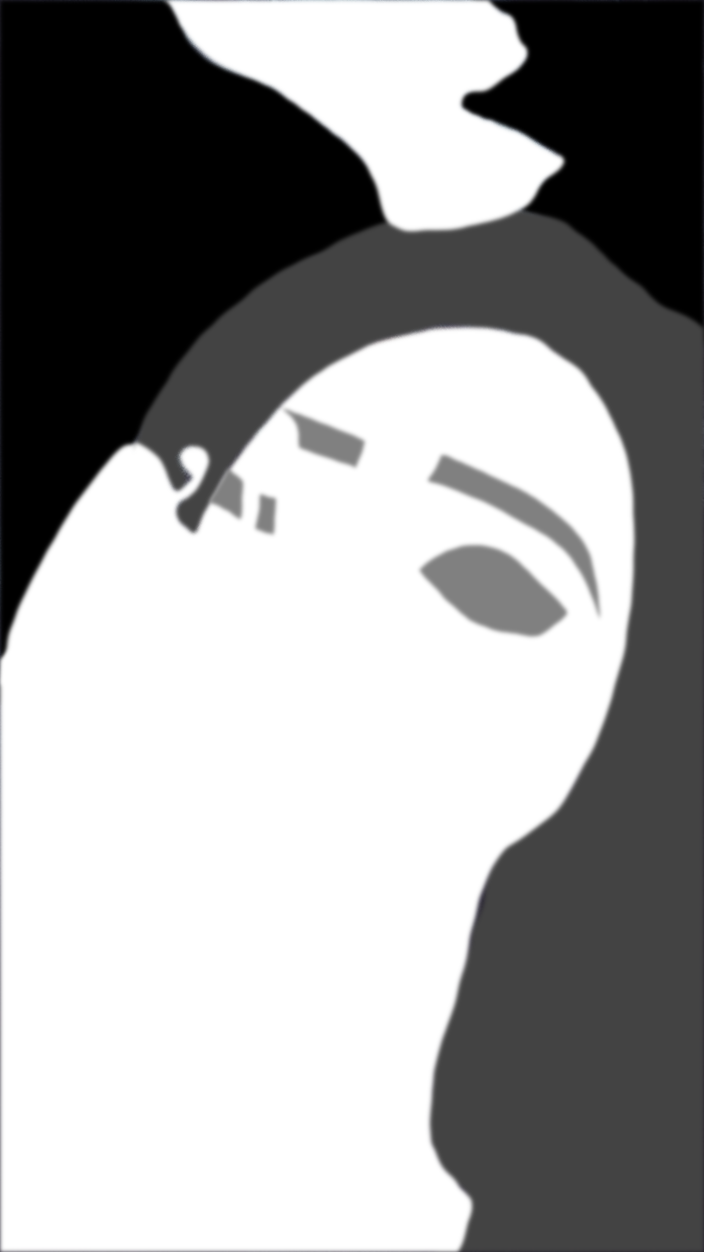
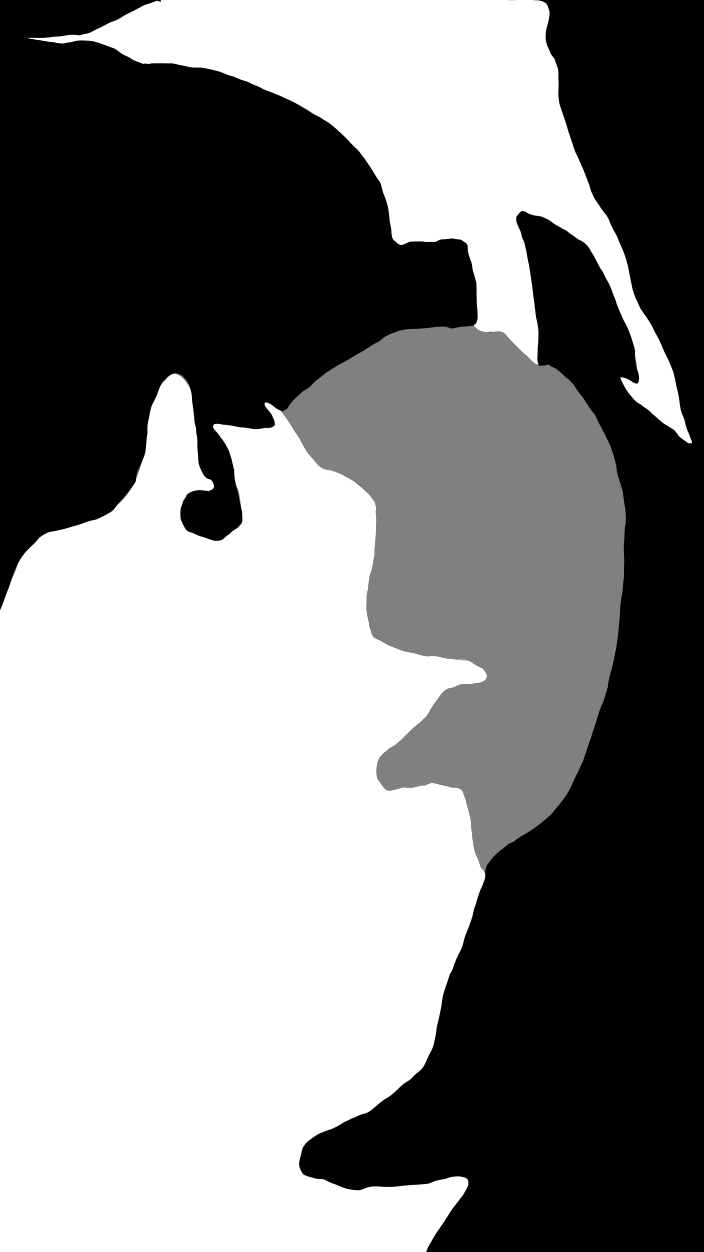
previous edit - input 2

diff --git a/sketch.js b/sketch.js
@@ -2,9 +2,9 @@ let sourceImg=null;
 let maskImg=null;
 let renderCounter=0;
 
-let sourceFile = "input_1.jpg";
-let maskFile   = "mask_1.png";
-let outputFile = "artwork_1.png";
+let sourceFile = "input_2.jpg";
+let maskFile   = "mask_2.png";
+let outputFile = "artwork_2.png";
 
 function preload() {
   sourceImg = loadImage(sourceFile);
@@ -30,33 +30,90 @@ function draw () {
     let mask = maskImg.get(x,y);
 }
 
+
  //input_1
 
-    const tile_width = 5;
-    const tile_height = 5;
+    //const tile_width = 5;
+    //const tile_height = 5;
 
  //smoke (white)
-    for(let y = 0; y<height; y = y+tile_height){
-    for(let x = 0; x<width; x = x+tile_width){
+    //for(let y = 0; y<height; y = y+tile_height){
+    //for(let x = 0; x<width; x = x+tile_width){
+    //let pix = sourceImg.get(x,y);
+    //let mask = maskImg.get(x,y);
+    //stroke(pix);
+    //noFill();
+    //strokeWeight(1.5);
+    //if(mask[0]>250){
+    //ellipse(x,y,tile_width*1,tile_height*1);
+  //}
+ //black
+    //else {
+    //stroke(pix);
+    //strokeWeight(2);
+    //noFill();
+    //rect(x,y,tile_width*0.7,tile_height*0.7);
+
+  //}
+  //}
+  //}
+
+//input_2
+    
+    const tile_width4 = 4;
+    const tile_height4 = 4;
+
+    for(let y = 0; y<height; y = y+tile_height4){
+    for(let x = 0; x<width; x = x+tile_width4){
+    let pix = sourceImg.get (x, y);
+    let mask = maskImg.get (x, y);
+    stroke(pix);
+    noFill();
+    strokeWeight(2);
+    if(mask[0]<120){
+    rect(x,y,tile_width4*2,tile_height4*2);
+}
+}
+}
+
+    const tile_width1 = 4;
+    const tile_height1 = 4;
+
+    for(let y = 0; y<height; y = y+tile_height1){
+    for(let x = 0; x<width; x = x+tile_width1){
     let pix = sourceImg.get(x,y);
     let mask = maskImg.get(x,y);
     stroke(pix);
+    strokeWeight(2);
+    fill(pix);
+    if(mask[0]>=100 && mask[0]<130){
+    ellipse(x,y,tile_width1*1.5,tile_height1*1.5);
+  }
+  }
+  }
+//background
+    const tile_width3 = 4;
+    const tile_height3 = 4;
+
+    for(let y = 0; y<height; y = y+tile_height3){
+    for(let x = 0; x<width; x = x+tile_width3){
+   let pix = sourceImg.get(x, y);
+    let mask = maskImg.get(x, y);
+    stroke(pix);
     noFill();
     strokeWeight(1.5);
-    if(mask[0]>250){
-    ellipse(x,y,tile_width*1,tile_height*1);
-  }
- //black
-    else {
-    stroke(pix);
-    strokeWeight(2);
+    if(mask[0]>240){
     noFill();
-    rect(x,y,tile_width*0.7,tile_height*0.7);
+    triangle(x,y-(tile_height3*2),x+(tile_width3*3),y+(tile_height3*2),x-(tile_width3*3),y+(tile_height3*2)); 
+    
+}
+}
+}
 
-  }
-  }
-  }
-  // input_3
+
+
+
+  //input_3
 
     // smoke
     //const tile_width1 = 12;
